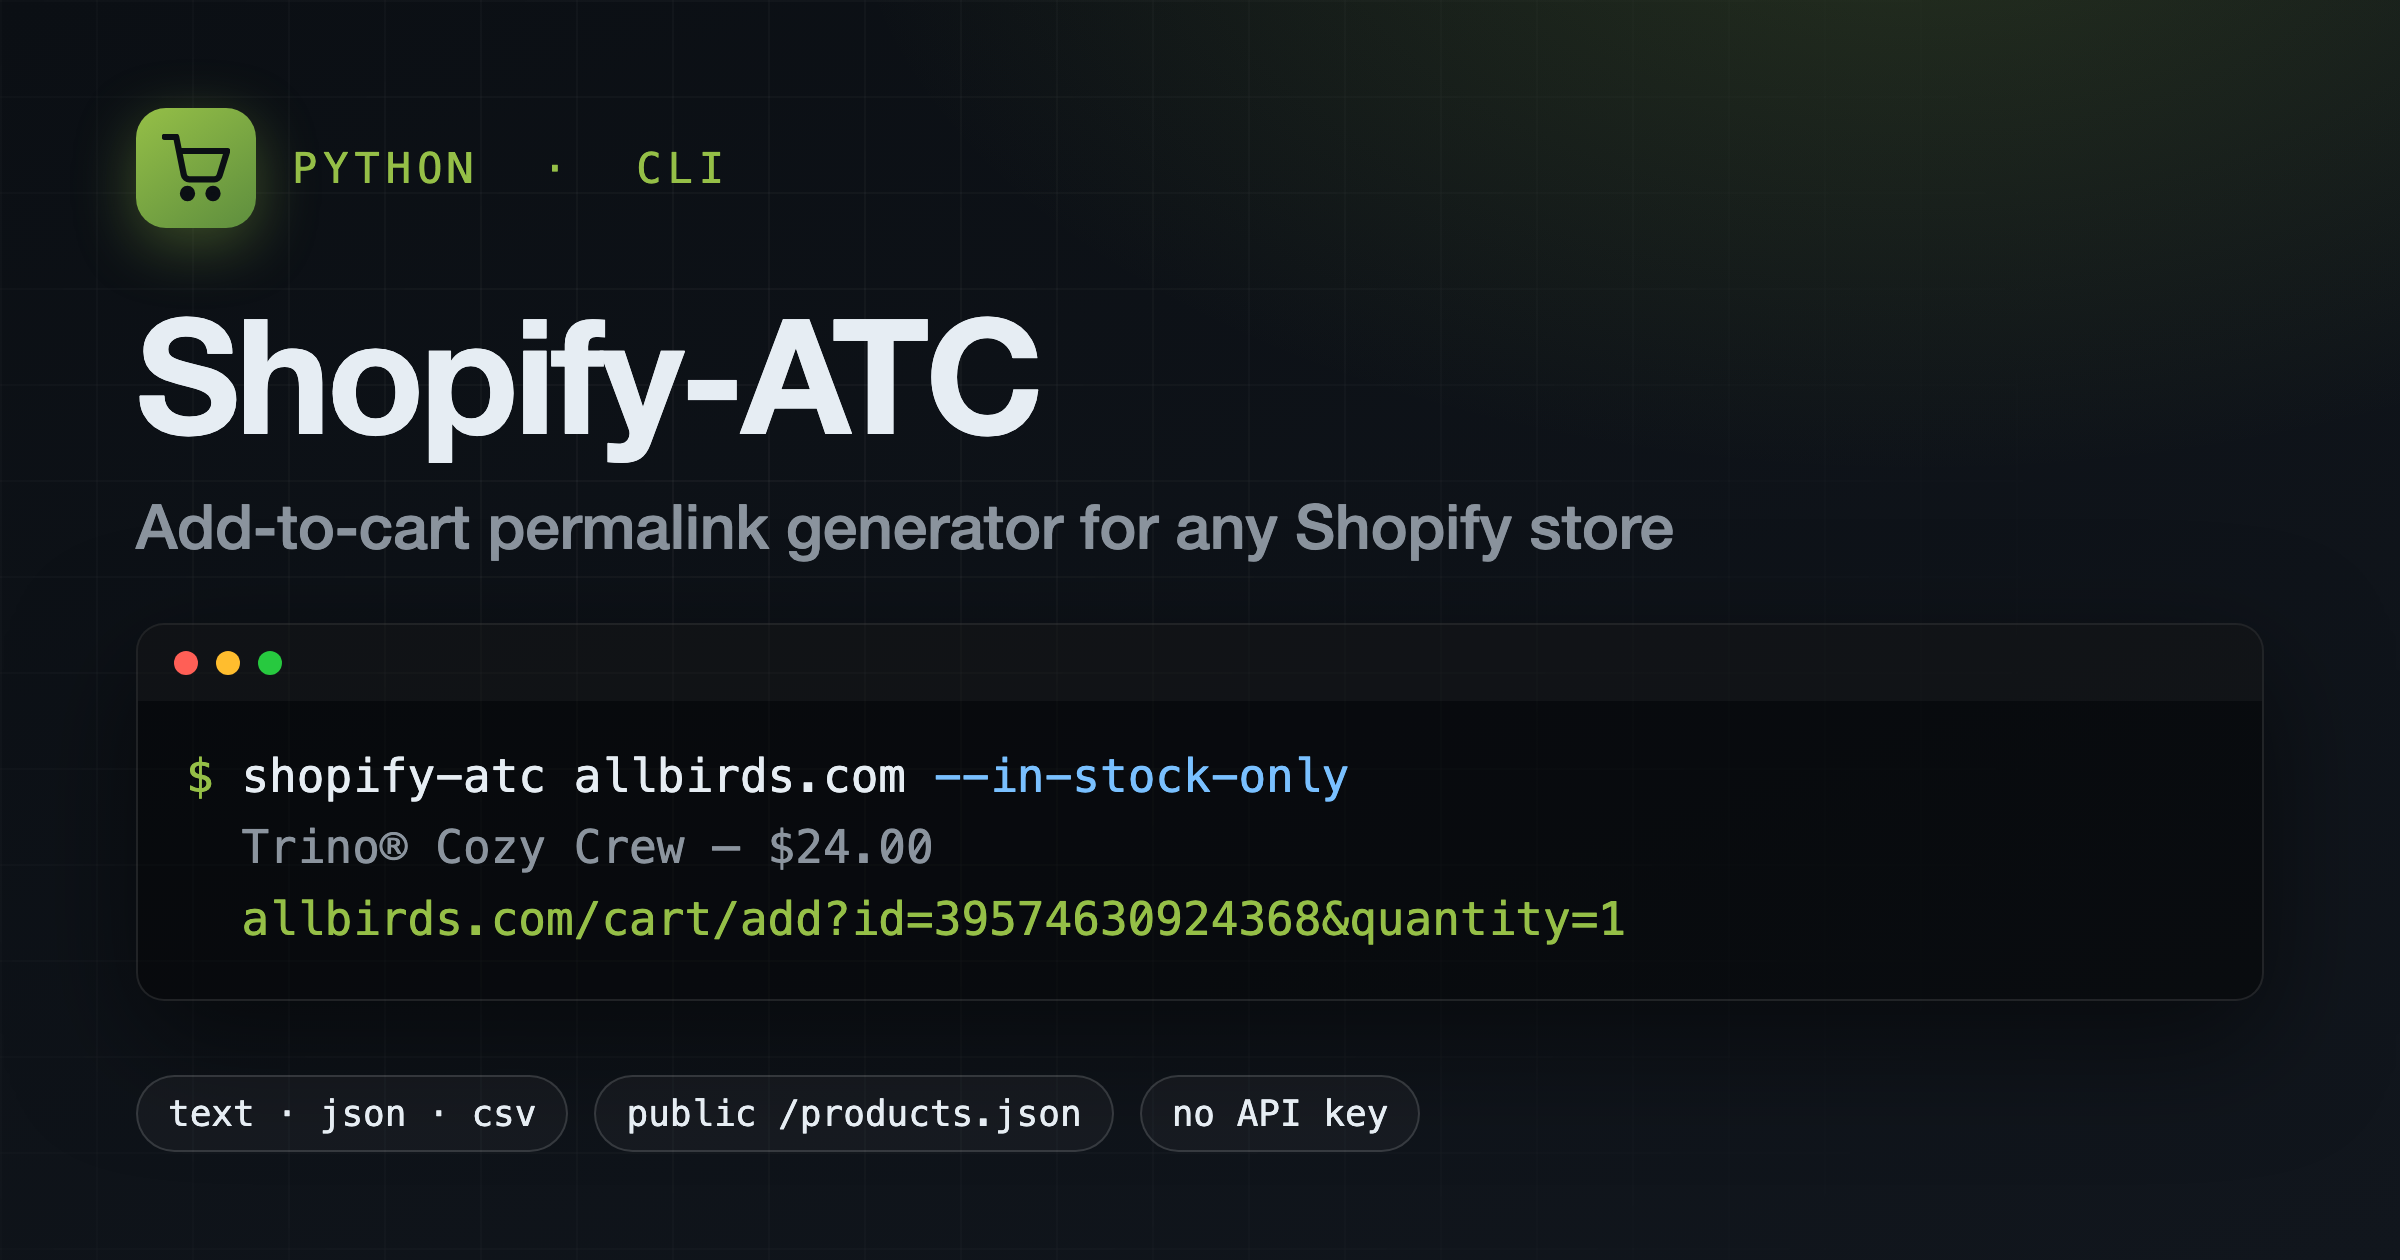
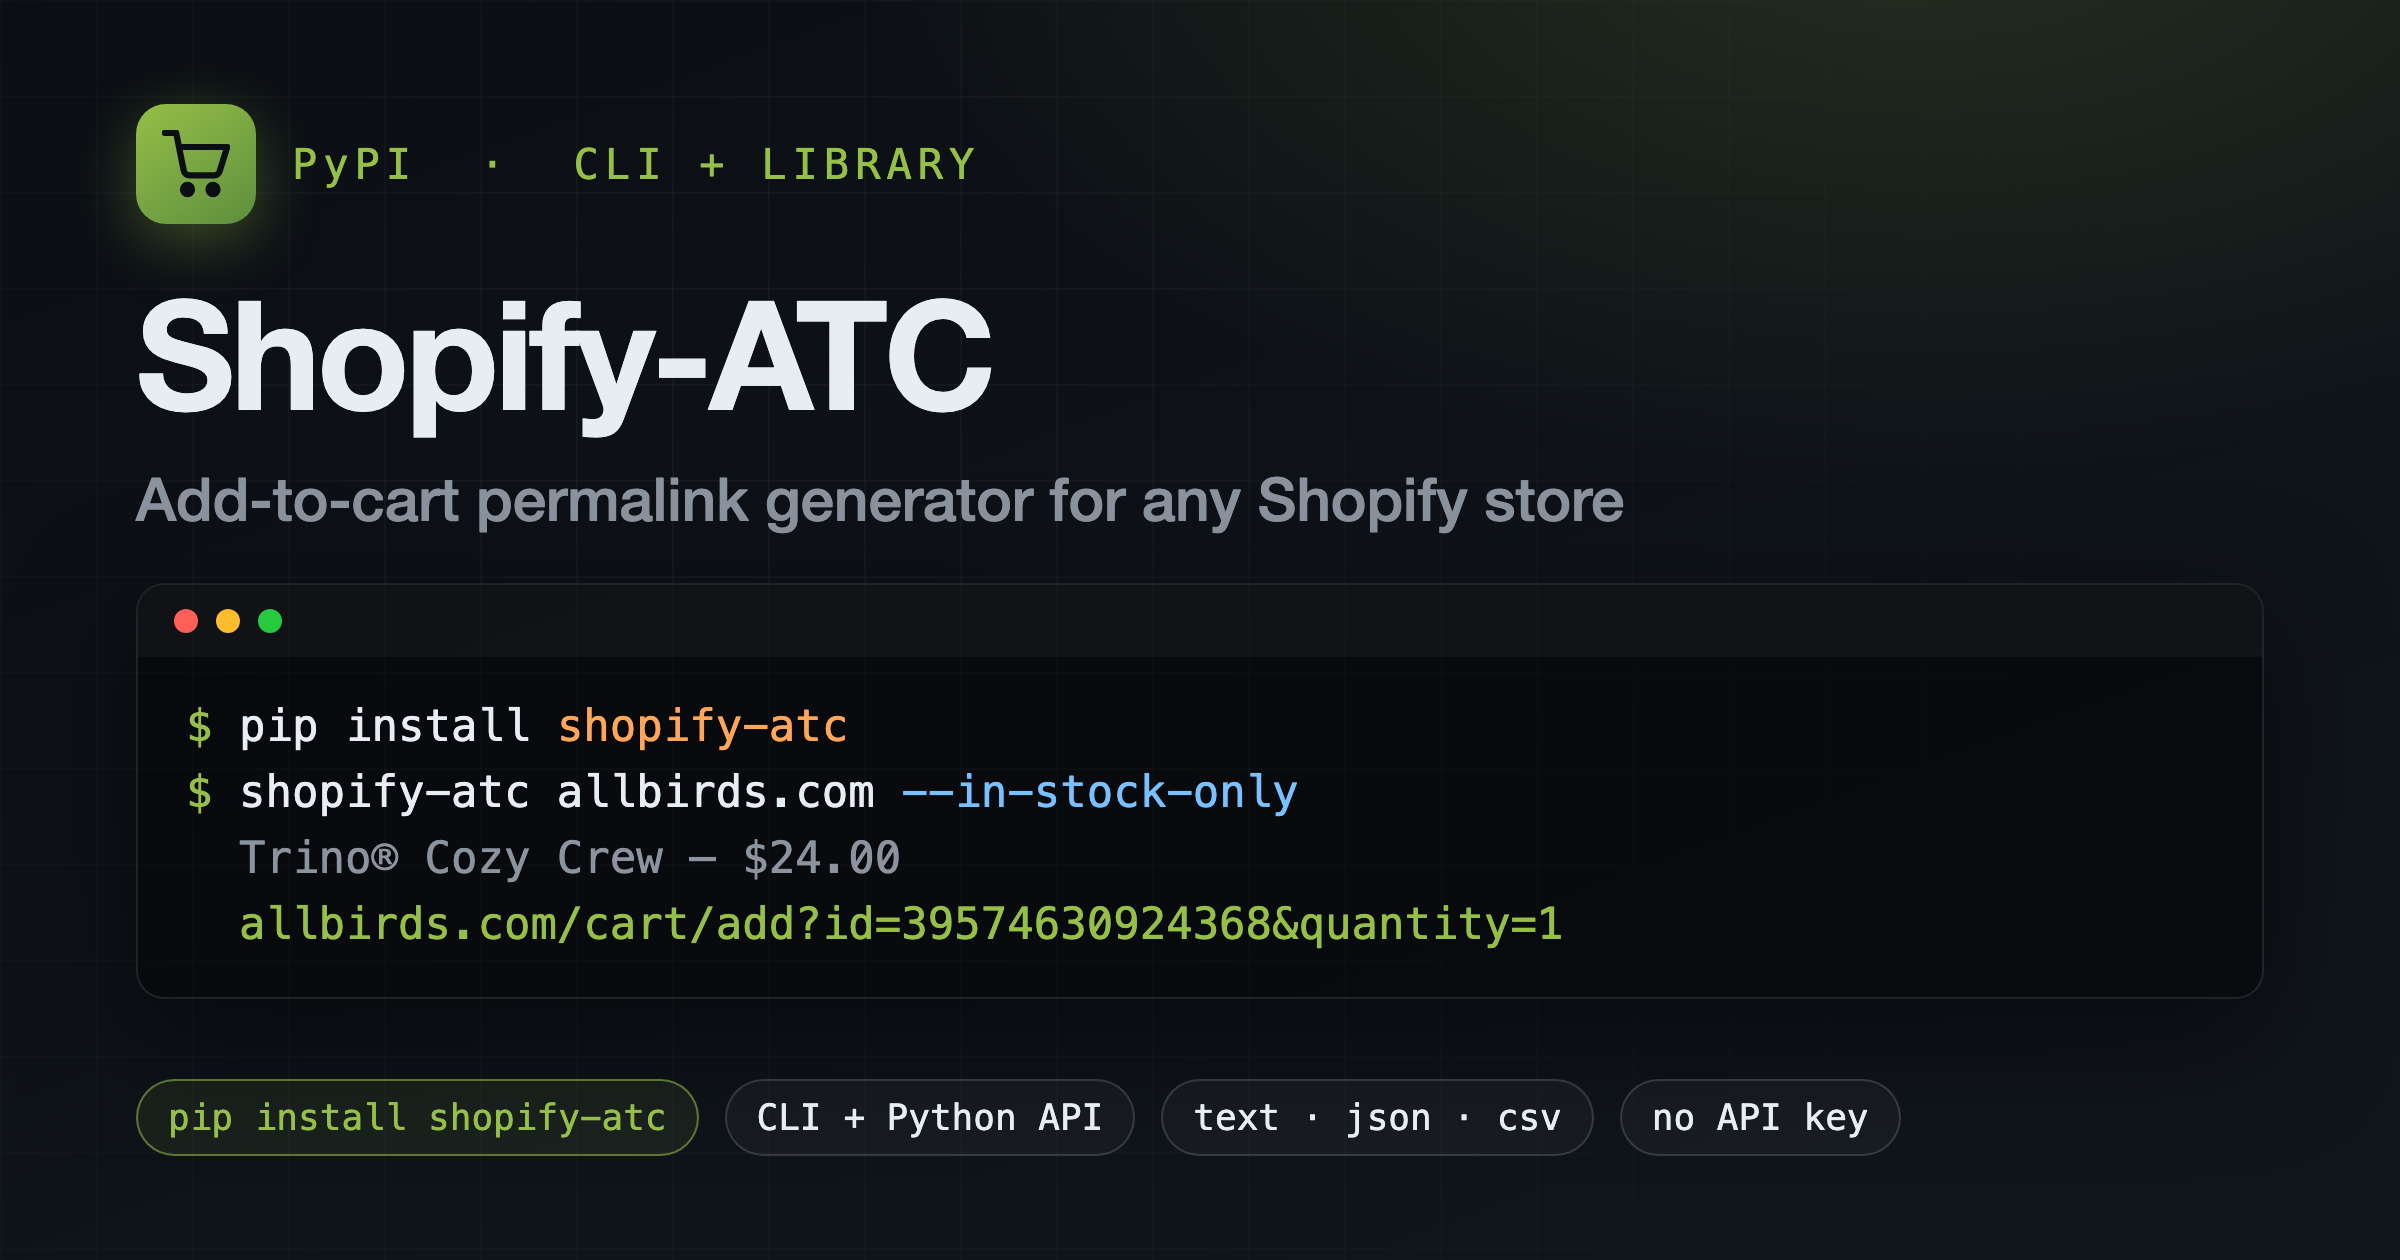
docs: refresh OG image for PyPI release (pip install + CLI/library)
Generated with [Claude Code](https://claude.ai/code)
via [Happy](https://happy.engineering)

diff --git a/.portfolio/og-previews/og-image.html b/.portfolio/og-previews/og-image.html
@@ -24,7 +24,7 @@
       linear-gradient(160deg, var(--bg) 0%, var(--bg2) 100%);
     position: relative; overflow: hidden;
     display: flex; flex-direction: column;
-    padding: 54px 68px;
+    padding: 52px 68px;
     font-family: var(--sans); color: var(--fg);
   }
   .card::before {
@@ -45,29 +45,31 @@
   .badge svg { width: 34px; height: 34px; }
   .kicker { font-family: var(--mono); color: var(--green); font-size: 21px; letter-spacing: 3px; }
 
-  h1 { font-size: 80px; font-weight: 800; letter-spacing: -2px; margin-top: 24px; z-index: 1; }
-  .tagline { font-size: 31px; color: var(--muted); margin-top: 8px; font-weight: 500; z-index: 1; }
+  h1 { font-size: 76px; font-weight: 800; letter-spacing: -2px; margin-top: 18px; z-index: 1; }
+  .tagline { font-size: 30px; color: var(--muted); margin-top: 8px; font-weight: 500; z-index: 1; }
 
   .term {
-    margin-top: 30px; z-index: 1;
+    margin-top: 24px; z-index: 1;
     background: rgba(0,0,0,0.45);
     border: 1px solid rgba(255,255,255,0.10);
     border-radius: 14px; overflow: hidden;
     box-shadow: 0 20px 60px rgba(0,0,0,0.5);
     width: 1064px;
   }
-  .term-bar { display: flex; gap: 9px; padding: 13px 18px; background: rgba(255,255,255,0.04); }
+  .term-bar { display: flex; gap: 9px; padding: 12px 18px; background: rgba(255,255,255,0.04); }
   .dot { width: 12px; height: 12px; border-radius: 50%; }
   .dot.r { background: #ff5f56; } .dot.y { background: #ffbd2e; } .dot.g { background: #27c93f; }
-  .term-body { font-family: var(--mono); font-size: 23px; line-height: 1.55; padding: 20px 24px 22px; }
+  .term-body { font-family: var(--mono); font-size: 22px; line-height: 1.5; padding: 18px 24px 20px; }
   .prompt .sym { color: var(--green); }
   .prompt .flag { color: #79c0ff; }
+  .prompt .pkg { color: #ffa657; }
   .out { color: var(--muted); }
   .out .link { color: var(--green); }
 
   .foot { margin-top: auto; z-index: 1; display: flex; gap: 13px; align-items: center; flex-wrap: nowrap; }
   .pill { font-family: var(--mono); font-size: 18px; color: var(--fg); white-space: nowrap; flex-shrink: 0;
           border: 1px solid rgba(255,255,255,0.14); border-radius: 999px; padding: 8px 15px; background: rgba(255,255,255,0.03); }
+  .pill.accent { border-color: rgba(149,191,71,0.55); color: var(--green); background: rgba(149,191,71,0.08); }
   .url { margin-left: auto; font-family: var(--mono); font-size: 21px; color: var(--muted); white-space: nowrap; flex-shrink: 0; }
 </style>
 </head>
@@ -80,7 +82,7 @@
           <path d="M1 1h4l2.7 13.4a2 2 0 0 0 2 1.6h8.7a2 2 0 0 0 2-1.6L23 6H6"/>
         </svg>
       </div>
-      <span class="kicker">PYTHON&nbsp;&nbsp;·&nbsp;&nbsp;CLI</span>
+      <span class="kicker">PyPI&nbsp;&nbsp;·&nbsp;&nbsp;CLI&nbsp;+&nbsp;LIBRARY</span>
     </div>
 
     <h1>Shopify-ATC</h1>
@@ -89,6 +91,7 @@
     <div class="term">
       <div class="term-bar"><span class="dot r"></span><span class="dot y"></span><span class="dot g"></span></div>
       <div class="term-body">
+        <div class="prompt"><span class="sym">$</span> pip install <span class="pkg">shopify-atc</span></div>
         <div class="prompt"><span class="sym">$</span> shopify-atc allbirds.com <span class="flag">--in-stock-only</span></div>
         <div class="out">&nbsp;&nbsp;Trino® Cozy Crew — $24.00</div>
         <div class="out">&nbsp;&nbsp;<span class="link">allbirds.com/cart/add?id=39574630924368&amp;quantity=1</span></div>
@@ -96,8 +99,9 @@
     </div>
 
     <div class="foot">
+      <span class="pill accent">pip install shopify-atc</span>
+      <span class="pill">CLI + Python API</span>
       <span class="pill">text · json · csv</span>
-      <span class="pill">public /products.json</span>
       <span class="pill">no API key</span>
     </div>
   </div>
